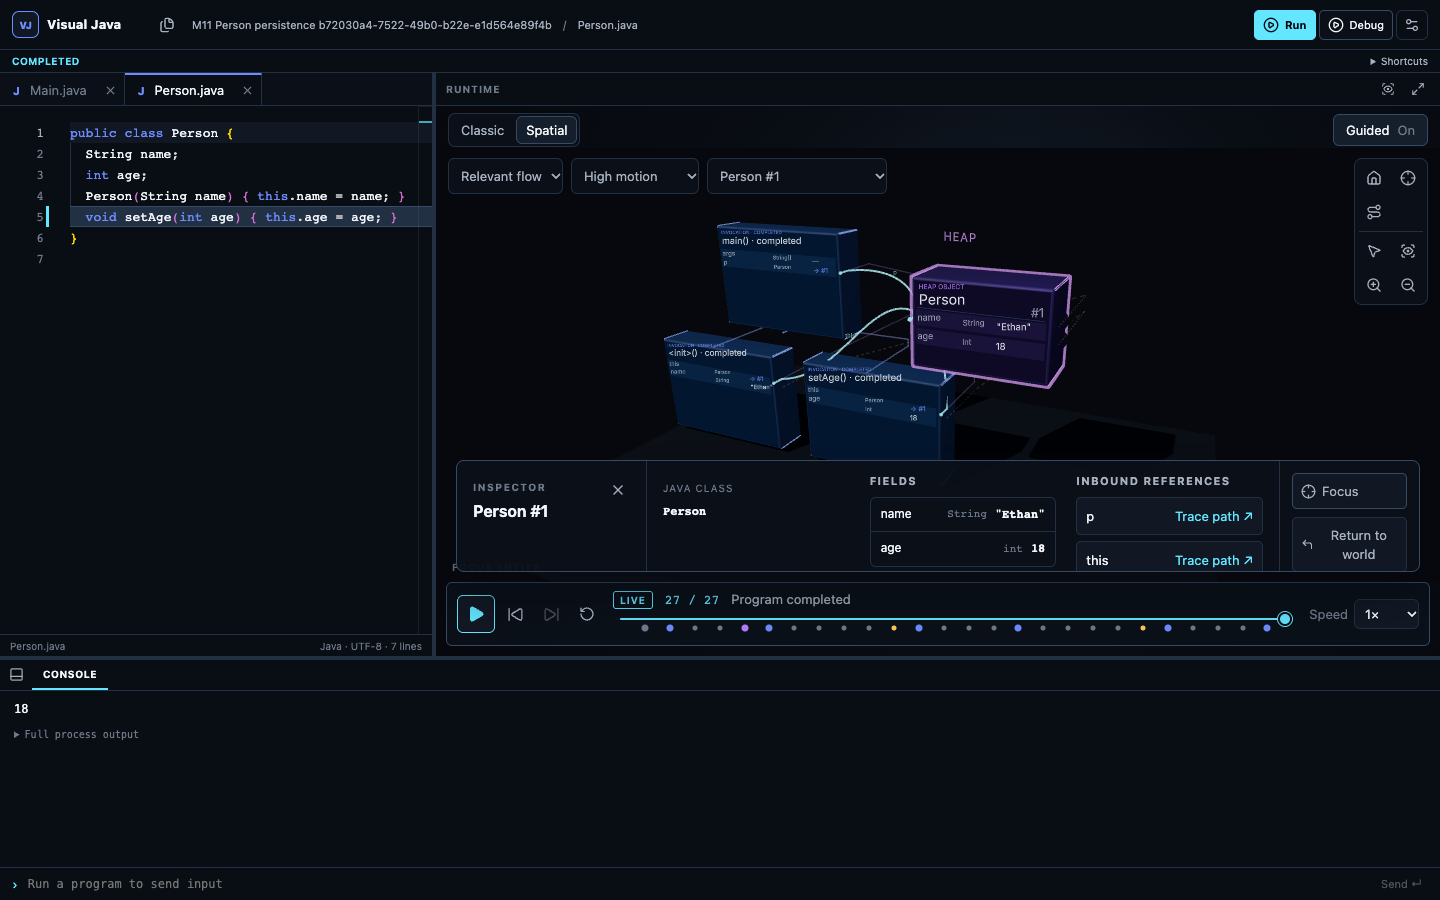
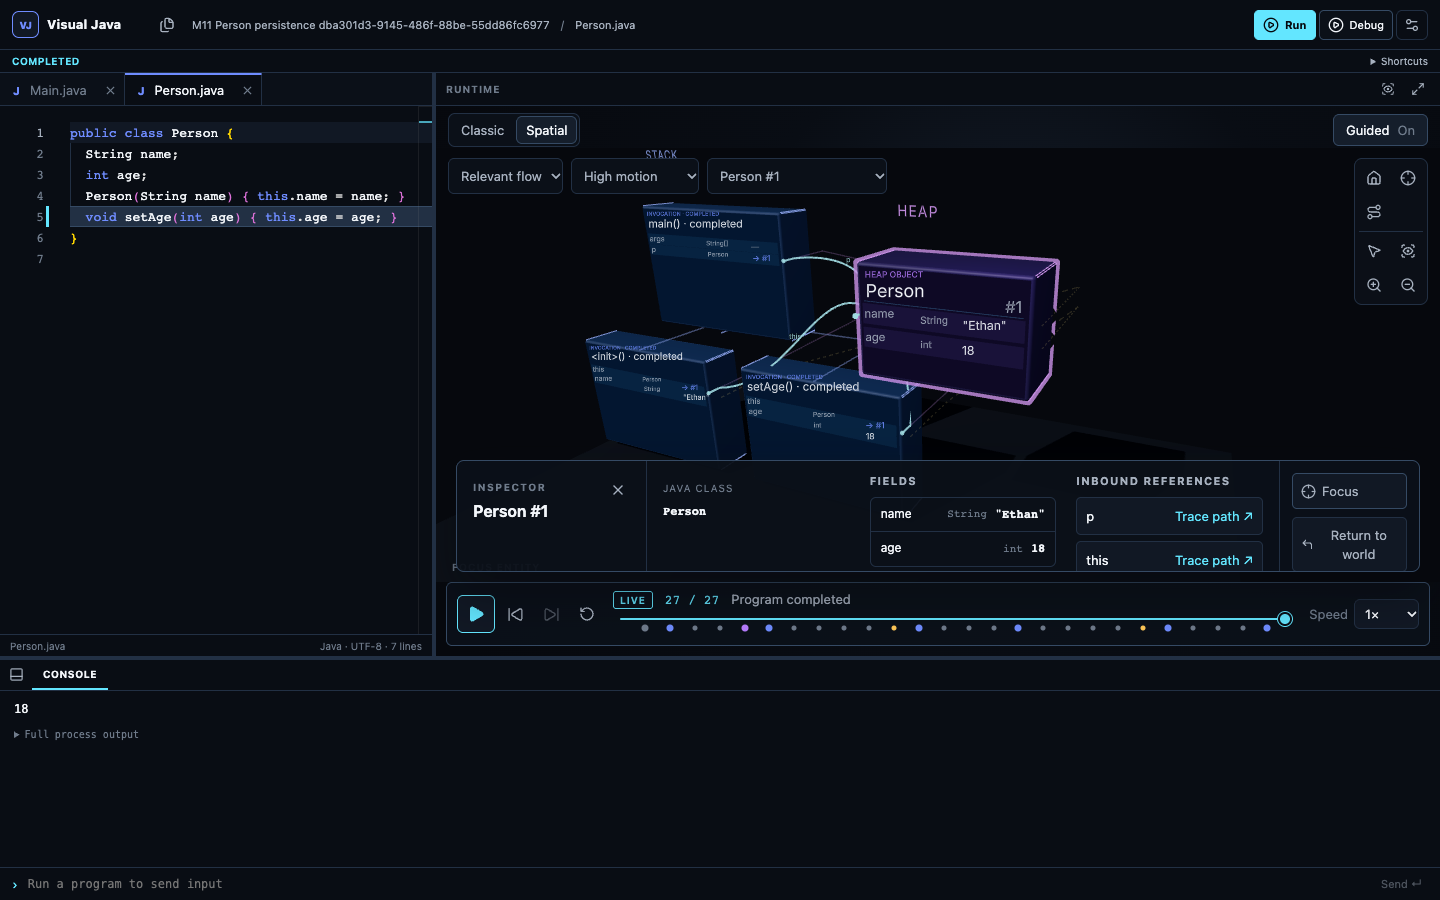
Tighten front-face focus framing

Changed region(s): [[0.4062, 0.2178, 0.75, 0.5289], [0.2188, 0.0, 0.4375, 0.0311]]

diff --git a/src/navigation/cameraMotion.test.ts b/src/navigation/cameraMotion.test.ts
@@ -5,7 +5,7 @@ import type { TraceEvent } from '../contracts/runtime'
 import type { SceneReferenceEdge, Vec3, WorldAnchor } from '../contracts/world'
 import { motionMs } from '../theme/tokens'
 import { stackHeadingFootprint } from '../world/runtimeHeadings'
-import { contextPose, guidedCameraAction, inspectorFocusPose, responsiveHomePose, sampleCameraMove, sceneHomePose, traceWaypoints } from './cameraMotion'
+import { contextPose, frontFacePoint, guidedCameraAction, inspectorFocusPose, responsiveHomePose, sampleCameraMove, sceneHomePose, traceWaypoints } from './cameraMotion'
 import type { CameraMove } from './cameraMotion'
 import { defaultHomePose, midpoint } from './navigation'
 
@@ -149,6 +149,34 @@ describe('inspector shelf safe rectangle', () => {
       [destination.position[0], destination.position[1] + destination.size[1] / 2 + 1.2, destination.position[2]],
     ])
     expect(new Vector3(...pose.position).distanceTo(new Vector3(...pose.target))).toBeGreaterThanOrEqual(8.5)
+  })
+
+  it('brings the selected front face closer while keeping its solid clear of the inspector', () => {
+    const face = frontFacePoint(destination)
+    const retainedFrameCorners: Vec3[] = [-1, 1].flatMap((x): Vec3[] => [-1, 1].flatMap((y): Vec3[] => [-1, 1].map((z) => [
+      -4 + x * 2.5, 4 + y, z * 0.7,
+    ])))
+    const home = sceneHomePose({ stackDepth: 3, bounds: {
+      center: [0, 1.5, 0], size: [14, 8, 5], points: [...corners, ...retainedFrameCorners],
+    } }, [0, 0, 0], shelfView, true)
+    const pose = inspectorFocusPose(face, destination.size, home, [], shelfView,
+      viewport, face, 5.8, [0.5, 0.8, 0.3])
+    const frontZ = destination.position[2] + destination.size[2] / 2
+    const faceCorners: Vec3[] = [-1, 1].flatMap((x): Vec3[] => [-1, 1].map((y) => [
+      destination.position[0] + x * destination.size[0] / 2,
+      destination.position[1] + y * destination.size[1] / 2,
+      frontZ,
+    ]))
+    expectAboveShelf(pose, corners.slice(8))
+    const projectedWidth = (cameraPose: CameraPose) => {
+      const camera = new PerspectiveCamera(41, shelfView.aspect, 0.1, 200)
+      camera.position.set(...cameraPose.position)
+      camera.lookAt(...cameraPose.target)
+      camera.updateMatrixWorld()
+      const xs = faceCorners.map((point) => new Vector3(...point).project(camera).x)
+      return Math.max(...xs) - Math.min(...xs)
+    }
+    expect(projectedWidth(pose)).toBeGreaterThan(projectedWidth(home) * 1.5)
   })
 
   it('reserves the shelf throughout reference travel and in the resting composition', () => {

diff --git a/src/navigation/NavigationController.tsx b/src/navigation/NavigationController.tsx
@@ -209,13 +209,9 @@ export function NavigationController({ sceneModel, event, activeEntityId, homeTa
       const anchor = selectionPoint(intent.selection, world)
       if (!anchor) return
       store.rememberPrevious(currentPose(), store.previousMode ?? 'HOME')
-      const pose = currentPose()
-      const cameraRight = new Vector3(0, 1, 0).cross(
-        new Vector3(...pose.position).sub(new Vector3(...pose.target)),
-      ).normalize()
       const face = frontFacePoint(anchor)
       const center = reservedWorld ? face : midpoint(overviewPose().target, face)
-      const pivot: Vec3 = [center[0] - cameraRight.x, center[1] - cameraRight.y, center[2] - cameraRight.z]
+      const pivot = center
       const context = arrayInspectionContext(intent.selection, sceneModel)
       if (sceneModel.layoutKind === 'scoped' && intent.selection.kind === 'slot') {
         const owner = sceneModel.frames.find((frame) => frame.slots.some((slot) => slot.id === intent.selection.id))
@@ -223,7 +219,7 @@ export function NavigationController({ sceneModel, event, activeEntityId, homeTa
       }
       startMove(inspectorFocusPose(pivot, anchor.size, currentPose(), context, viewFraming(), {
         width: size.width, height: size.height,
-      }, face, 5.8), motionMs.deliberate)
+      }, face, 5.8, [0.5, 0.8, 0.3]), motionMs.deliberate)
     } else if (intent.kind === 'tracePath') {
       const edge = world.references.find((reference) => reference.id === intent.referenceId)
       if (!edge) return

diff --git a/src/navigation/cameraMotion.ts b/src/navigation/cameraMotion.ts
@@ -210,6 +210,7 @@ export function inspectorFocusPose(
   viewport: InspectorViewport,
   selectedPosition: Vec3 = pivot,
   minimumDistance = 8.5,
+  selectedPadding: Vec3 = [1, 2, 0.6],
 ): CameraPose {
   const width = Math.max(1, viewport.width)
   const height = Math.max(1, viewport.height)
@@ -238,7 +239,8 @@ export function inspectorFocusPose(
       size: [anchor.size[0] + 0.6, anchor.size[1] + 0.8, anchor.size[2]] as Vec3,
     })),
     // Labels and mutation callouts project beyond the body, especially above it.
-    { position: [selectedPosition[0], selectedPosition[1] + 0.4, selectedPosition[2]] as Vec3, size: [extent[0] + 1, extent[1] + 2, extent[2] + 0.6] as Vec3 },
+    { position: [selectedPosition[0], selectedPosition[1] + 0.4, selectedPosition[2]] as Vec3,
+      size: [extent[0] + selectedPadding[0], extent[1] + selectedPadding[1], extent[2] + selectedPadding[2]] as Vec3 },
   ]
   for (const body of bodies) {
     for (const x of [-1, 1]) for (const y of [-1, 1]) for (const z of [-1, 1]) {

diff --git a/e2e/m11-persistence.spec.ts b/e2e/m11-persistence.spec.ts
@@ -55,6 +55,7 @@ test('real Person execution leaves navigable historical calls and final state; R
   await picker.selectOption(personId!)
   const inspector = page.getByRole('complementary', { name: 'Runtime inspector' })
   await expect(inspector).toContainText('18')
+  await page.screenshot({ path: `${captureRoot}/person-before-focus-1440x900.png`, animations: 'disabled' })
   await inspector.getByRole('button', { name: 'Focus', exact: true }).click()
   await page.waitForTimeout(650)
   await page.screenshot({ path: `${captureRoot}/person-focus-1440x900.png`, animations: 'disabled' })

diff --git a/docs/checkpoints/m11/FOCUS-QA.md b/docs/checkpoints/m11/FOCUS-QA.md
@@ -1,0 +1,7 @@
+# Front-face Focus polish
+
+The selected runtime body's actual front-face anchor is now the camera pivot in reserved worlds. Focus fits the solid and its face labels in the clear portion of the viewport above the inspector shelf, with tighter padding than the general contextual camera fit. This changes only camera framing; it does not move runtime anchors or change trace semantics. Home, Return to world, free orbit/pan/dolly, and user-input cancellation keep their existing contracts.
+
+The paired 1440 × 900 captures use the same real `Person` JVM trace and IDE layout: [before](person-before-focus-1440x900.png), [after](person-focus-1440x900.png). The selected `Person` front face grows from roughly 70 px to 200 px wide; `name` and `age` remain visible above the inspector. The completed-world captures at 1728 × 1117, 1440 × 900, 1280 × 800, and 760 × 900 were reviewed for exposed cuboid depth, visible fields, attached references, and spacing.
+
+Validation after this change: 535 unit tests across 56 files, 19 affected browser tests, production build, TypeScript check, lint, and `git diff --check` passed. The browser set covers camera controls, Person, arrays, recursion, and editing/saving/running a nested-package Java project. Vite still reports the existing Monaco/troika large-chunk warning; it does not fail the build.
